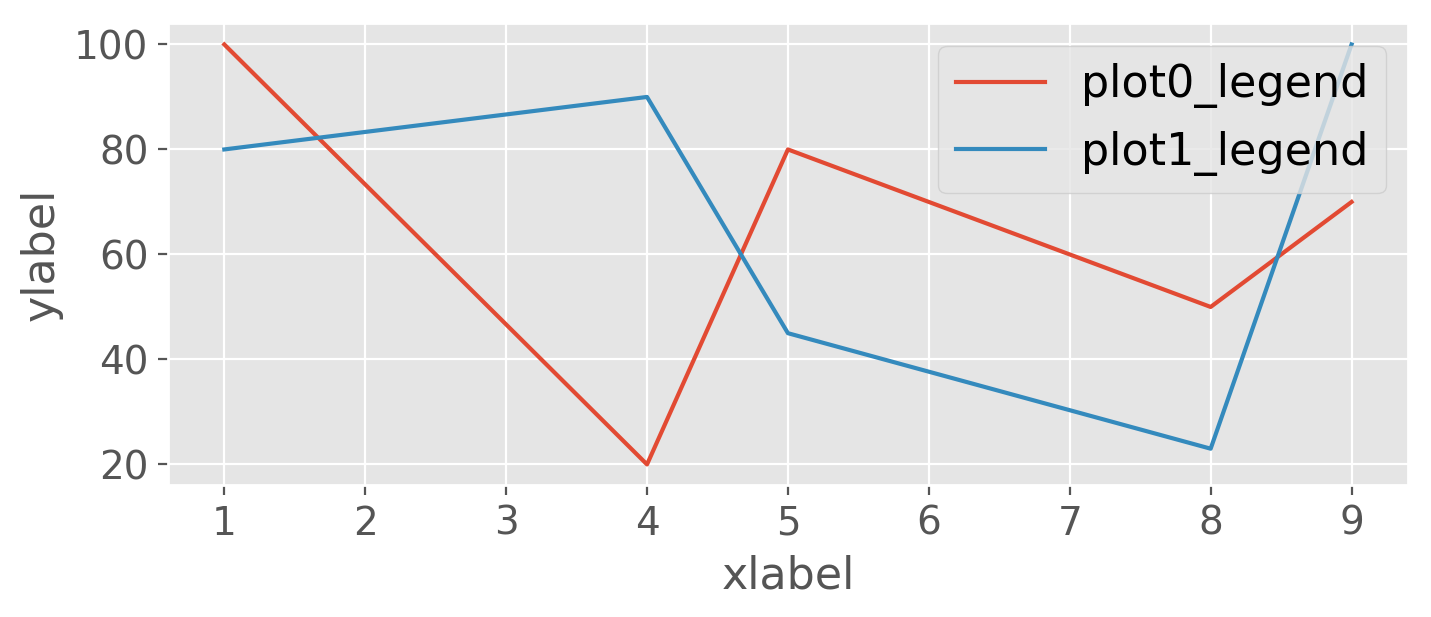
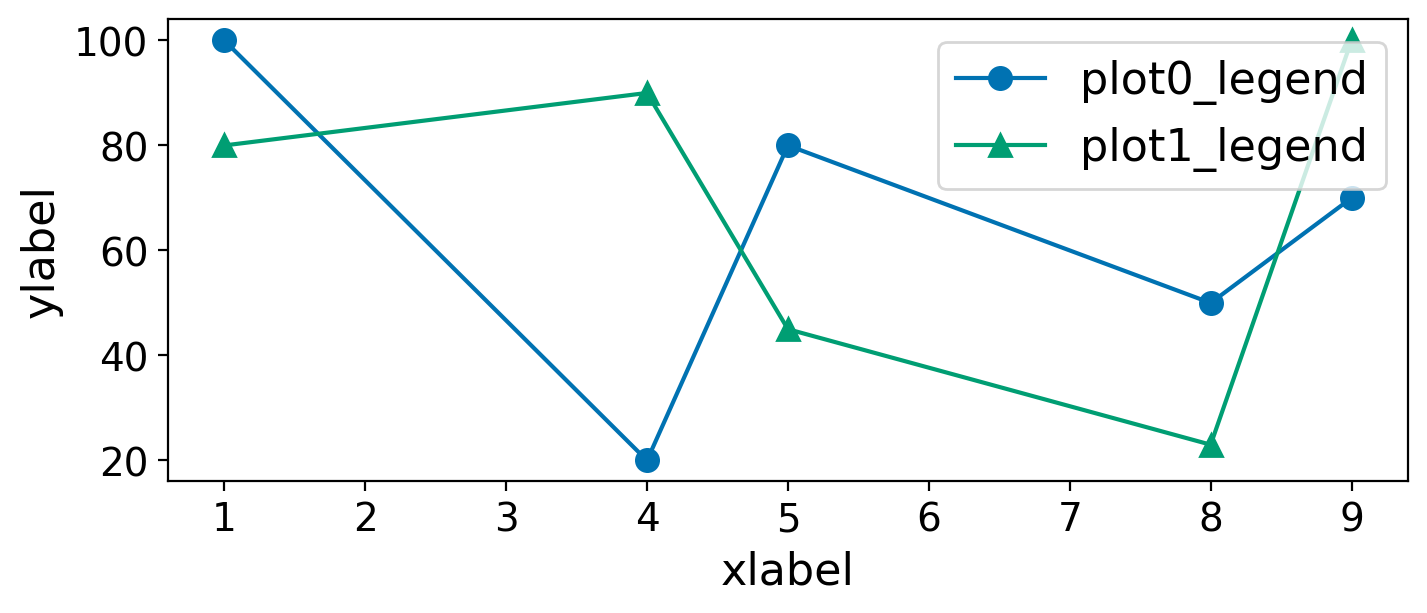
update

diff --git a/plot_with_style/plot_seaborn_dont_use.py b/plot_with_style/plot_seaborn_dont_use.py
@@ -3,7 +3,10 @@ import matplotlib.pyplot as plt
 import matplotlib
 from matplotlib.ticker import FuncFormatter
 
-plt.style.use('seaborn-colorblind')
+import seaborn as sns
+sns.set_theme(style="whitegrid")
+
+# plt.style.use('ggplot')
 
 if __name__ == "__main__":
 
@@ -13,15 +16,19 @@ if __name__ == "__main__":
 
     fig, ax = plt.subplots(1, 1, figsize=(8, 3))
 
+    plot0 = sns.lineplot(x=data_x, y=data_y_plot0, ax=ax)
+    plot1 = sns.lineplot(x=data_x, y=data_y_plot1, ax=ax)
+
     label_font = 16
     markersize = 8
     tick_font = 14
     color_plot0 = "#008A00"
     color_plot1 = "#1BA1E2"
 
-    plot0 = ax.plot(data_x, data_y_plot0, marker='o', markersize=markersize) #color=color_plot0, 
-    plot1 = ax.plot(data_x, data_y_plot1, marker='^', markersize=markersize) # color=color_plot1,
-    ax.legend([plot0[0], plot1[0]], ["plot0_legend", "plot1_legend"], loc='upper right', fontsize=label_font)
+    # plot0 = ax.plot(data_x, data_y_plot0)#, color=color_plot0, marker='o', markersize=markersize)
+    # plot1 = ax.plot(data_x, data_y_plot1)#, color=color_plot1, marker='^', markersize=markersize)
+    ax.legend([plot0, plot1], ["plot0_legend", "plot1_legend"], loc='upper right', fontsize=label_font)
+    # ax.legend([plot0[0], plot1[0]], ["plot0_legend", "plot1_legend"], loc='upper right', fontsize=label_font)
     ax.tick_params(top=False, bottom=True, left=True, right=False, labelleft=True, labelsize=tick_font)
     ax.get_xaxis().set_visible(True)
     ax.set_xlabel('xlabel', fontsize=label_font)
@@ -32,5 +39,5 @@ if __name__ == "__main__":
 
     plt.rcParams.update({'figure.autolayout': True})
 
-    plt.savefig('../images/plot_with_style.png', transparent=False, dpi=200, bbox_inches="tight")
+    plt.savefig('../images/plot_with_style_seaborn.png', transparent=False, dpi=200, bbox_inches="tight")
     plt.show()
